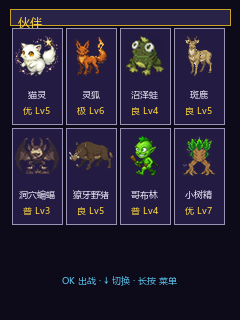
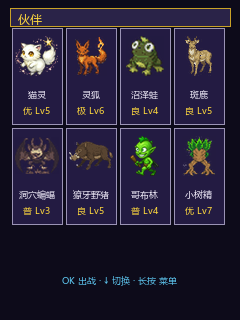
fix(mage): 主交付改为最终界面效果大图 + 伙伴名字 LONG_DOT 防溢出 + 标题居中
用户连续反馈对比拼图「位置不对/有遮挡」，根因是 before/after 拼图形式本身让人困惑
（before 展示的旧 bug 被误读为「还有问题」）。改为主交付 3 张「最终效果大图」
（学院/角色/伙伴，2x 放大、场景内零标注、底部一行极简改动说明），让用户在烧录前
直接确认固件最终界面；before/after 对比图保留在文件仅作内部佐证。

固件：
- 伙伴网格名字/角标 width cw-8(46) -> cw-4(50) + lv_label_set_long_mode(LONG_DOT)：
  '洞穴蝙蝠'等 4 字(12px=48px)在 50px 格内不再换行溢出（之前 46px 宽会 wrap）

预览：
- draw_frame/伙伴页标题字 y=13->11，垂直居中于标题条(8~26)，不再贴下边框
- 伙伴名字加省略号截断保护（镜像固件 LONG_DOT），任何名字不溢出 50px 格
- 新增 mage_final_*.png 最终效果大图输出

验证：check_cjk_coverage 魔法线 [PASS] 无缺字（·/各伙伴名均在字库）

Changed region(s): [[0.0583, 0.0, 0.9625, 0.0938]]

diff --git a/tools/preview_mage_fixes.py b/tools/preview_mage_fixes.py
@@ -271,8 +271,8 @@ C_CELL = (35, 27, 66)        # 0x231b42 网格单元底（与固件 lv_color_hex
 
 def draw_frame(d, frame_h, title):
     d.rectangle([10, 10, 230, 10 + frame_h], fill=C_CELL, outline=(201, 162, 39))
-    d.rectangle([10, 9, 230, 25], fill=(42, 35, 72), outline=(201, 162, 39))
-    d.text((18, 14), title, font=F12, fill=C_GOLD)
+    d.rectangle([10, 8, 230, 26], fill=(42, 35, 72), outline=(201, 162, 39))
+    d.text((18, 11), title, font=F12, fill=C_GOLD)
 
 
 def draw_list_row(d, im, x, y, w, h, icon, name, sub, rgt,
@@ -385,8 +385,8 @@ def draw_status(d, im, before):
 def draw_partners(d, im, before):
     d.rectangle([0, 0, W, H], fill=C_BG)
     # 镜像固件 g_part_root(10,26,220,250) + 4×2 单元(cw54,ch100,size50×96,pos(2+col*54,2+rowi*100))
-    d.rectangle([10, 9, 230, 25], fill=(42, 35, 72), outline=(201, 162, 39))
-    d.text((18, 14), "伙伴", font=F12, fill=C_GOLD)
+    d.rectangle([10, 8, 230, 26], fill=(42, 35, 72), outline=(201, 162, 39))
+    d.text((18, 11), "伙伴", font=F12, fill=C_GOLD)
     cw, ch, cell_inner_w = 54, 100, 50
     for i, (typ, nm, tag) in enumerate(PARTNERS):
         col = i % 4
@@ -406,7 +406,13 @@ def draw_partners(d, im, before):
             mx = cx + (cell_inner_w - mw) // 2
             my = cy + 8 + (40 - mh) // 2
             im.paste(mon, (mx, my), mon)
-        d.text((cx + cell_inner_w // 2, cy + 66), nm, font=F9, fill=C_WHITE, anchor="mm")
+        nm_draw = nm
+        if F9.getlength(nm) > cell_inner_w - 4:
+            s = nm
+            while s and F9.getlength(s + "…") > cell_inner_w - 4:
+                s = s[:-1]
+            nm_draw = s + "…"
+        d.text((cx + cell_inner_w // 2, cy + 66), nm_draw, font=F9, fill=C_WHITE, anchor="mm")
         d.text((cx + cell_inner_w // 2, cy + 82), tag, font=F9, fill=C_GOLD, anchor="mm")
     d.text((W // 2, 280), "OK 出战 · ↓ 切换 · 长按 菜单", font=F9, fill=C_CYAN, anchor="mm")
 
@@ -513,6 +519,25 @@ def main():
             dd.text((x + 12 + tw, cy + 8), d, font=F9, fill=C_WHITE)
     ov6.save(os.path.join(OUT, "mage_sixth_overview_720x704.png"))
     print("written:", os.path.join(OUT, "mage_sixth_overview_720x704.png"))
+
+    # ---------------- 最终效果大图（烧录前确认用） ----------------
+    # 只出 after（最终界面），2x 放大，场景内零标注；底部一行极简说明本次改动。
+    # 不再用 before/after 拼图作为主交付——用户要的是直接看「固件最终长什么样」。
+    FINAL_NOTE = {
+        "academy_after":  "魔法学院：列表动态铺满 + 价格并入名字（对齐 HTML 原版），副标题超宽自动省略号",
+        "status_after":   "角色页：职级并入等级行、经验独立成行，7 行动态铺满，无任何压字",
+        "partners_after": "伙伴图鉴：遍历全部 84 只魔物烘缩略图，8 格全有真实立绘",
+    }
+    for k, note in FINAL_NOTE.items():
+        base = sixth[k].resize((W * 2, H * 2), Image.LANCZOS)
+        out = Image.new("RGB", (W * 2, H * 2 + 36), (16, 12, 32))
+        out.paste(base, (0, 0))
+        dd = ImageDraw.Draw(out)
+        dd.rectangle([0, H * 2, W * 2, H * 2 + 35], fill=(24, 18, 44))
+        dd.line([0, H * 2, W * 2, H * 2], fill=C_GOLD, width=1)
+        dd.text((12, H * 2 + 11), note, font=F9, fill=C_WHITE)
+        out.save(os.path.join(OUT, "mage_final_%s.png" % k))
+        print("written:", os.path.join(OUT, "mage_final_%s.png" % k))
 
 
 if __name__ == "__main__":

diff --git a/main/mage.c b/main/mage.c
@@ -494,7 +494,8 @@ static void build_ui(void) {
             use_cjk(nm);
             lv_obj_set_style_text_color(nm, C_WHITE, 0);
             lv_obj_set_style_text_font(nm, &mage_cjk_12, 0);
-            lv_obj_set_width(nm, cw - 8);
+            lv_obj_set_width(nm, cw - 4);
+            lv_label_set_long_mode(nm, LV_LABEL_LONG_DOT);
             lv_obj_set_style_text_align(nm, LV_TEXT_ALIGN_CENTER, 0);
             lv_obj_set_pos(nm, 2, 66);
             g_part_name[i] = nm;
@@ -502,7 +503,8 @@ static void build_ui(void) {
             use_cjk(tg);
             lv_obj_set_style_text_color(tg, C_GOLD, 0);
             lv_obj_set_style_text_font(tg, &mage_cjk_12, 0);
-            lv_obj_set_width(tg, cw - 8);
+            lv_obj_set_width(tg, cw - 4);
+            lv_label_set_long_mode(tg, LV_LABEL_LONG_DOT);
             lv_obj_set_style_text_align(tg, LV_TEXT_ALIGN_CENTER, 0);
             lv_obj_set_pos(tg, 2, 82);
             g_part_tag[i] = tg;
